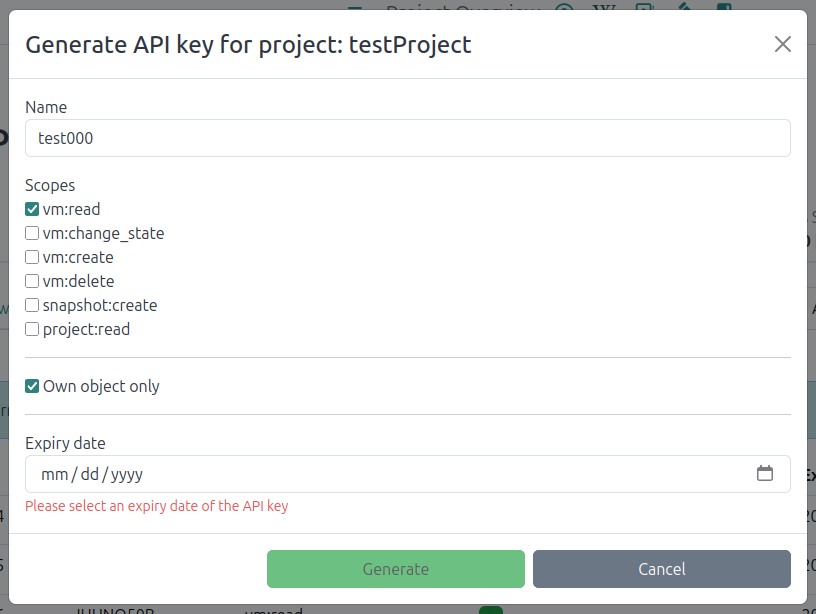
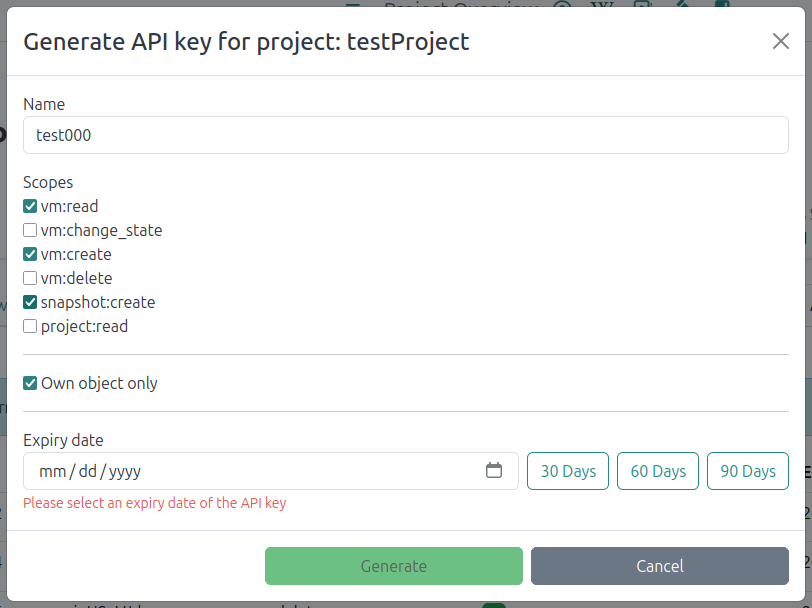
fix(api_key): updated screenshot and description

Changed region(s): [[0.0, 0.0, 1.0, 1.0], [0.0, 0.0938, 0.9544, 0.25], [0.0, 0.9062, 0.0308, 0.9375]]

diff --git a/wiki/simple_vm/user_api_keys.md b/wiki/simple_vm/user_api_keys.md
@@ -19,6 +19,8 @@ You will be asked to select one or more scopes, select at least one scope to cre
 
 The Own Objects Only option is set on default. Deselecting it means that you will be able to access everything within your permissions, including virtual machines or volumes created by other users. Only deselect this option when you are sure that you won't affect important data with your key.
 
+You also need to enter an expiry date for your API key. You can use the buttons on the side to quick select a date after certain days.
+
 The generated key is displayed at the top of the API keys table. Since it contains authentication information, we will not store the key in the database. Please save the key somewhere safe and handle it with care. Should you fear that an API key is leaked or otherways compromised, simply delete it from the table.
 
 ## Using API Keys